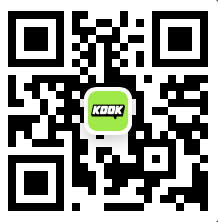
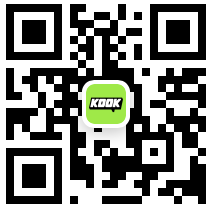
feat(kook): refresh channel invite QR code

Changed region(s): [[0.028, 0.0, 1.0, 0.9714], [0.4206, 0.5714, 0.4766, 0.6286], [0.9813, 0.9714, 1.0, 1.0]]

diff --git a/README.md b/README.md
@@ -10,7 +10,7 @@
 
 - 正式站点：[三角洲口琴演奏家](https://jiko-official.top/delta/)
 - 备用站点（可能需要网络工具）：[GitHub Pages](https://jikoschnee.github.io/delta-harmonica-macro/)
-- 网页版本：`5.4.0`（录制助手启动时会自动检查更新）
+- 网页版本：`5.5.8`（录制助手启动时会自动检查更新）
 - KOOK 频道：[点击加入](https://kook.vip/jcJIDN)
 
   ![KOOK 频道二维码](assets/kook-channel-qr.png)
